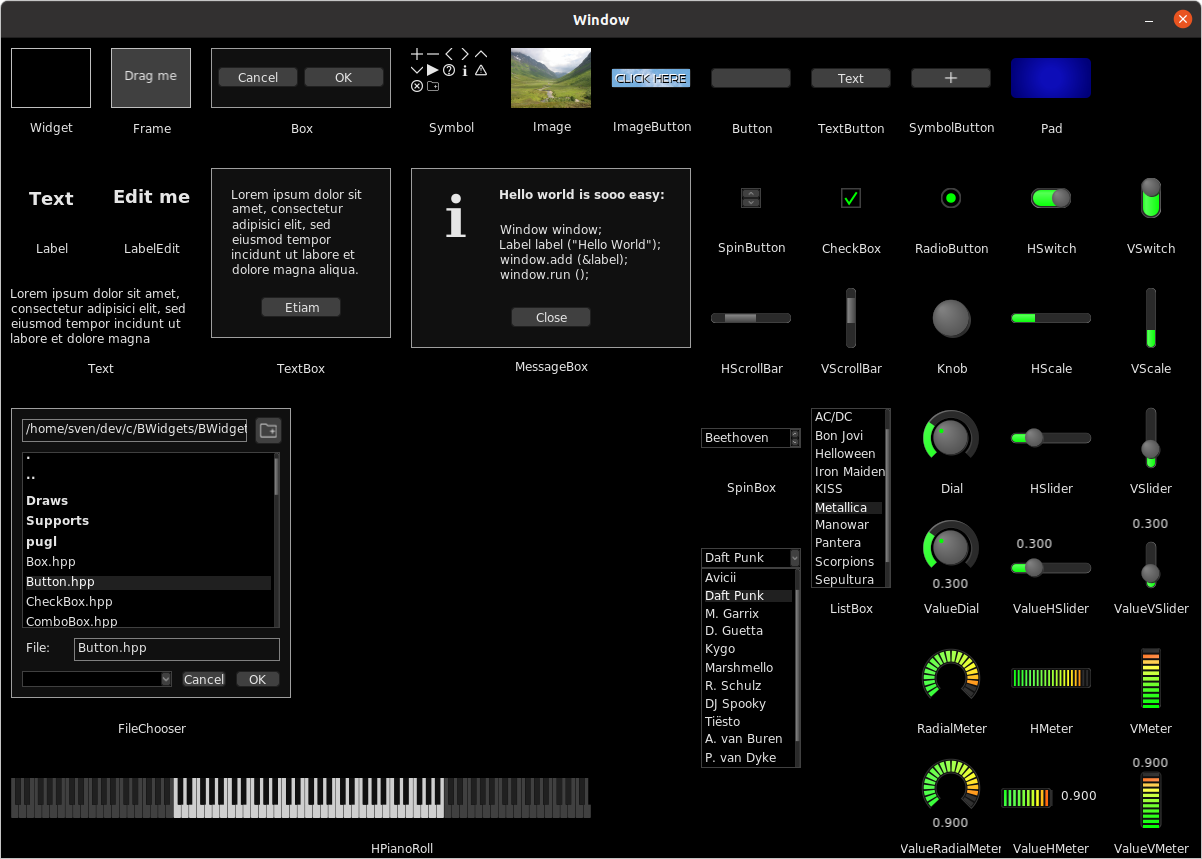
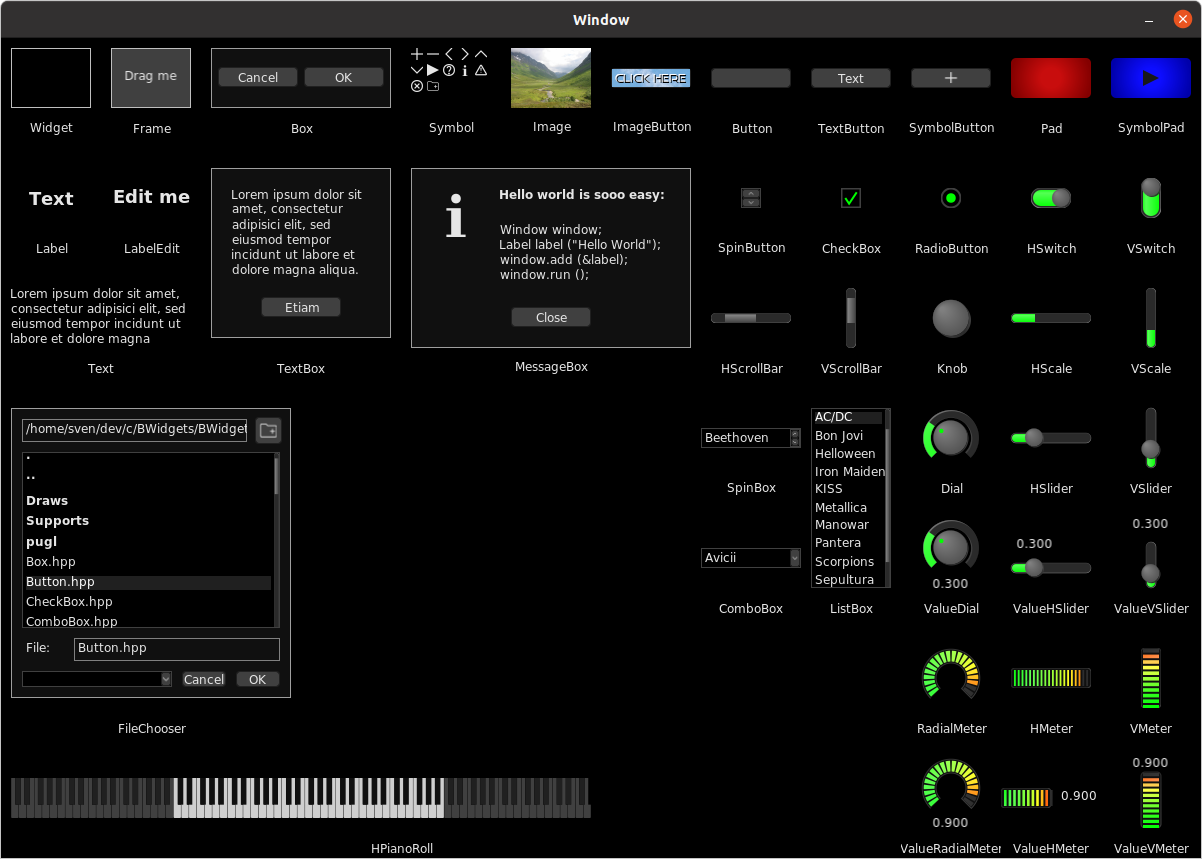
New SymbolPad

diff --git a/BWidgets/SymbolPad.hpp b/BWidgets/SymbolPad.hpp
@@ -1,0 +1,219 @@
+/* SymbolPad.hpp
+ * Copyright (C) 2018 - 2022  Sven Jähnichen
+ *
+ * This program is free software: you can redistribute it and/or modify
+ * it under the terms of the GNU General Public License as published by
+ * the Free Software Foundation, either version 3 of the License, or
+ * (at your option) any later version.
+ *
+ * This program is distributed in the hope that it will be useful,
+ * but WITHOUT ANY WARRANTY; without even the implied warranty of
+ * MERCHANTABILITY or FITNESS FOR A PARTICULAR PURPOSE.  See the
+ * GNU General Public License for more details.
+ *
+ * You should have received a copy of the GNU General Public License
+ * along with this program.  If not, see <https://www.gnu.org/licenses/>.
+ */
+
+#ifndef BWIDGETS_SYMBOLPAD_HPP_
+#define BWIDGETS_SYMBOLPAD_HPP_
+
+#include "Pad.hpp"
+#include "Symbol.hpp"
+
+#ifndef BWIDGETS_DEFAULT_SYMBOLPAD_WIDTH
+#define BWIDGETS_DEFAULT_SYMBOLPAD_WIDTH BWIDGETS_DEFAULT_PAD_WIDTH
+#endif
+
+#ifndef BWIDGETS_DEFAULT_SYMBOLPAD_HEIGHT
+#define BWIDGETS_DEFAULT_SYMBOLPAD_HEIGHT BWIDGETS_DEFAULT_PAD_HEIGHT
+#endif
+
+namespace BWidgets
+{
+/**
+ *  @brief Composite Pad Widget containing a Symbol.
+ *
+ *  %SymbolPad is a Pad containing a Symbol. Its value is represented
+ *  by its color from dark to bright. It supports user interaction via
+ *  Clickable (switch on / off) and Scrollable (increase / decrease 
+ *  value). The visualble content of the %SymbolPad is represented by 
+ *  FgColors.
+ */
+class SymbolPad : public Pad
+{
+public:
+
+	Symbol symbol;
+
+	/**
+	 * @brief  Constructs a new %SymbolPad object with default parameters.
+	 */
+	SymbolPad ();
+
+	/**
+	 *  @brief  Creates a %SymbolPad with default size.
+	 *  @param symbolIdx  SymbolType index.
+	 *  @param value  Initial value.
+	 *  @param min  Lower value limit.
+	 *  @param max  Upper value limit.
+	 *  @param step  Optional, value increment steps.
+	 *  @param urid  Optional, URID (default = URID_UNKNOWN_URID).
+	 *  @param title  Optional, %Widget title (default = "").
+	 */
+	SymbolPad	(const Symbol::SymbolType symbolIdx, const double value, const double min, const double max, double step = 0.0, 
+				 uint32_t urid = URID_UNKNOWN_URID, std::string title = "");
+
+	/**
+	 *  @brief  Creates a %SymbolPad.
+	 *  @param x  %Widget X origin coordinate.
+	 *  @param y  %Widget Y origin coordinate.
+	 *  @param width  %Widget width.
+	 *  @param height  %Widget height.
+	 *  @param symbolIdx  SymbolType index.
+	 *  @param value  Initial value.
+	 *  @param min  Lower value limit.
+	 *  @param max  Upper value limit.
+	 *  @param step  Optional, value increment steps.
+	 *  @param urid  Optional, URID (default = URID_UNKNOWN_URID).
+	 *  @param title  Optional, %Widget title (default = "").
+	 */
+	SymbolPad	(const double x, const double y, const double width, const double height, 
+				 const Symbol::SymbolType symbolIdx, const double value, const double min, const double max, double step = 0.0,
+				 std::function<double (const double& x)> transferFunc = ValueTransferable<double>::noTransfer,
+				 std::function<double (const double& x)> reTransferFunc = ValueTransferable<double>::noTransfer,
+				 uint32_t urid = URID_UNKNOWN_URID, std::string title = "");
+
+	/**
+	 *  @brief  Creates a clone of the %SymbolPad. 
+	 *  @return  Pointer to the new %SymbolPad.
+	 *
+	 *  Creates a clone of this %SymbolPad by copying all properties. But NOT
+	 *  its linkage.
+	 *
+	 *  Allocated heap memory needs to be freed using @c delete if the clone
+	 *  in not needed anymore!
+	 */
+	virtual Widget* clone () const override; 
+
+	/**
+	 *  @brief  Copies from another %SymbolPad. 
+	 *  @param that  Other %SymbolPad.
+	 *
+	 *  Copies all properties from another %SymbolPad. But NOT its linkage.
+	 */
+	void copy (const SymbolPad* that);
+
+	/**
+     *  @brief  Optimizes the object surface extends.
+     *
+     *  Creates a new RGBA surface with the new optimized extends, copies the
+     *  surface data from the previous surface, and calls @c update() .
+	 */
+	virtual void resize () override;
+
+    /**
+     *  @brief  Resizes the object surface extends.
+	 *  @param width  New object width.
+	 *  @param height  New object height.
+     *
+     *  Creates a new RGBA surface with the new extends, copies the 
+     *  surface data from the previous surface, and calls @c update() .
+	 */
+	virtual void resize (const double width, const double height) override;
+
+    /**
+	 *  @brief  Resizes the object surface extends.
+	 *  @param extends  New object extends.
+     *
+     *  Creates a new RGBA surface with the new extends, copies the 
+     *  surface data from the previous surface, and calls @c update() .
+	 */
+	virtual void resize (const BUtilities::Point extends) override;
+
+	/**
+     *  @brief  Method to be called following an object state change.
+     */
+    virtual void update () override;
+};
+
+inline SymbolPad::SymbolPad () : 
+	SymbolPad	(0.0, 0.0, BWIDGETS_DEFAULT_PAD_WIDTH, BWIDGETS_DEFAULT_PAD_HEIGHT,
+				 Symbol::NO_SYMBOL, 0.0, 0.0, 1.0, 0.0, 
+				 ValueTransferable<double>::noTransfer, ValueTransferable<double>::noTransfer,  
+				 URID_UNKNOWN_URID, "") 
+{
+
+}
+
+inline SymbolPad::SymbolPad	(const Symbol::SymbolType symbolIdx, double value, const double min, const double max, double step, 
+							 uint32_t urid, std::string title) :
+	SymbolPad	(0.0, 0.0, BWIDGETS_DEFAULT_PAD_WIDTH, BWIDGETS_DEFAULT_PAD_HEIGHT,
+				 symbolIdx, value, min, max, step, 
+				 ValueTransferable<double>::noTransfer, ValueTransferable<double>::noTransfer,  
+				 urid, title) 
+{
+
+}
+
+inline SymbolPad::SymbolPad	(const double x, const double y, const double width, const double height, 
+						 	 const Symbol::SymbolType symbolIdx, double value, const double min, const double max, double step, 
+							 std::function<double (const double& x)> transferFunc,
+			 				 std::function<double (const double& x)> reTransferFunc,
+							 uint32_t urid, std::string title) :
+	Pad (x, y, width, height,value, min, max, step, transferFunc, reTransferFunc, urid, title),
+	symbol (0, 0, width, height, symbolIdx, BUtilities::Urid::urid (BUtilities::Urid::uri (urid) + "/symbol"))
+{
+	symbol.setEventPassable(BEvents::Event::BUTTON_PRESS_EVENT, true);
+	symbol.setEventPassable(BEvents::Event::BUTTON_CLICK_EVENT, true);
+	symbol.setEventPassable(BEvents::Event::POINTER_DRAG_EVENT, true);
+	symbol.setEventPassable(BEvents::Event::WHEEL_SCROLL_EVENT, true);
+	symbol.setTxColors (symbol.getBgColors());
+	symbol.setStatus (BStyles::STATUS_INACTIVE);
+	add (&symbol);
+	symbol.resize (BUtilities::Point (0.4 * extends_.x, 0.4 * extends_.y));
+	symbol.moveTo (symbol.center(), symbol.middle());
+}
+
+inline Widget* SymbolPad::clone () const 
+{
+	Widget* f = new SymbolPad ();
+	f->copy (this);
+	return f;
+}
+
+inline void SymbolPad::copy (const SymbolPad* that)
+{
+	symbol.copy (&that->symbol);
+    Pad::copy (that);
+}
+
+inline void SymbolPad::resize ()
+{
+	symbol.resize ();
+	Pad::resize (2.5 * symbol.getWidth(), 2.5 * symbol.getHeight());
+	symbol.moveTo (symbol.center(), symbol.middle());
+}
+
+inline void SymbolPad::resize (const double width, const double height) 
+{
+	SymbolPad::resize (BUtilities::Point (width, height));
+}
+
+inline void SymbolPad::resize (const BUtilities::Point extends)
+{
+	Pad::resize (BUtilities::Point (extends.x, extends.y));
+	symbol.resize (BUtilities::Point (0.4 * extends.x, 0.4 * extends.y));
+	symbol.moveTo (symbol.center(), symbol.middle());
+}
+
+inline void SymbolPad::update ()
+{
+	symbol.resize (0.4 * getEffectiveWidth(), 0.4 * getEffectiveHeight());
+	symbol.moveTo (symbol.center(), symbol.middle());
+	Pad::update ();
+}
+
+}
+
+#endif /* BWIDGETS_SYMBOLPAD_HPP_ */

diff --git a/examples/widgetgallery.cpp b/examples/widgetgallery.cpp
@@ -27,6 +27,7 @@
 #include "../BWidgets/TextButton.hpp"
 #include "../BWidgets/SymbolButton.hpp"
 #include "../BWidgets/Pad.hpp"
+#include "../BWidgets/SymbolPad.hpp"
 #include "../BWidgets/ImageButton.hpp"
 #include "../BWidgets/CheckBox.hpp"
 #include "../BWidgets/RadioButton.hpp"
@@ -185,12 +186,20 @@ int main ()
     window.add (&symbolButtonLabel);
 
     // Pad
-    Pad pad (1010, 20, 80, 40, 0.0, 0.0, 1.0, 0.0);
-    pad.setFgColors(BStyles::blues);
+    Pad pad (1010, 20, 80, 40, 0.7, 0.0, 1.0, 0.0);
+    pad.setFgColors(BStyles::reds);
     Label padLabel (1000, 80, 100, 20, "Pad");
     padLabel.setFont (labelFont);
     window.add (&pad);
     window.add (&padLabel);
+
+    // SymbolPad
+    SymbolPad symbolPad (1110, 20, 80, 40, Symbol::PLAY_SYMBOL, 0.7, 0.0, 1.0, 0.0);
+    symbolPad.setFgColors(BStyles::blues);
+    Label symbolPadLabel (1100, 80, 100, 20, "SymbolPad");
+    symbolPadLabel.setFont (labelFont);
+    window.add (&symbolPad);
+    window.add (&symbolPadLabel);
 
     // SpinButton
     SpinButton spinButton (740, 150, 20, 20);

diff --git a/BWidgets/README.md b/BWidgets/README.md
@@ -160,6 +160,7 @@ Widget
  |    ╰── VSwitch
  ├── SpinButton
  ├── Pad
+ |    ╰── SymbolPad
  ├── HMeter
  |    ├── ValueHMeter
  |    ╰── HScale
@@ -418,9 +419,18 @@ is represented by its background and its border.
 
 `Pad` is a `Valueable` widget imitating an LED pad. Its value is represented
 by its color from dark to bright. It supports user interaction via
-`Clickable` (switch on / off), `Draggable` (increase / decrease value), and
-`Scrollable` (increase / decrease value). The visualble content of
-the Pad is represented by FgColors.
+`Clickable` (switch on / off) and `Scrollable` (increase / decrease value). 
+The visualble content of the Pad is represented by FgColors.
+
+### SymbolPad
+
+![symbolpad](../suppl/SymbolPad.png)
+
+`SymbolPad` is a `Pad` containing a `Symbol`. Its value is represented
+by its color from dark to bright. It supports user interaction via
+`Clickable` (switch on / off) and `Scrollable` (increase / decrease 
+value). The visualble content of the %SymbolPad is represented by 
+FgColors.
 
 
 ### HMeter
